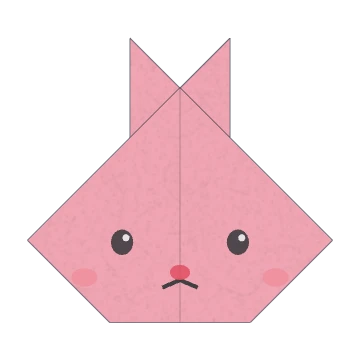
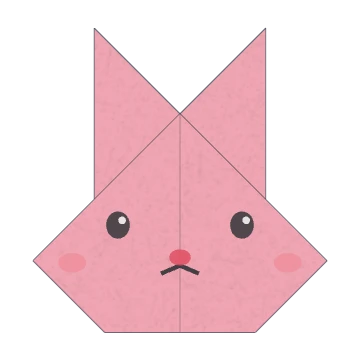
토끼 얼굴: 띠를 넓혀 귀가 길게 솟게, 턱 선과 얼굴 그림 위치 맞춤

diff --git a/src/models/rabbit.js b/src/models/rabbit.js
@@ -2,7 +2,7 @@
 // 출처: Origami Club "Rabbit (face)" (Fumiaki Shingu) https://en.origami-club.com/easy/animal-face/rabbit/
 // 세모의 아래 변을 띠로 접어 올리고, 양쪽을 가운데로 올려 접으면 띠 끝이 솟아 귀가 된다.
 import { eye, cheek, PENCIL } from './parts/draw.js';
-const R = Math.SQRT1_2, B = 0.1; // 띠 폭
+const R = Math.SQRT1_2, B = 0.16; // 띠 폭 (= 귀가 꼭대기 위로 나오는 길이)
 const band = (c) => c.tags.has('band');
 const flip = { spin: { a: [0, 0, 0], b: [0, 1, 0], angle: 180 } };
 
@@ -30,15 +30,15 @@ export const rabbit = {
       ],
     },
     { text: '종이를 뒤집어요.', moves: [flip], view: [0, 0.4, 1] },
-    { text: '아래 꼭짓점도 뒤로 접어 턱을 만들어요.', moves: [{ line: [[-1, 0.24], [1, 0.24]], side: [0, 0.15], toward: -1 }] },
+    { text: '아래 꼭짓점도 뒤로 접어 턱을 만들어요.', moves: [{ line: [[-1, 0.3], [1, 0.3]], side: [0, 0.2], toward: -1 }] },
     {
       text: '연필로 눈과 입을 그리고, 색연필로 코와 볼을 분홍색으로 칠하면 완성!',
       view: [0, 0, 1],
       draw: [
-        ...eye(-0.115, 0.4, 0.022), ...eye(0.115, 0.4, 0.022),
-        { line: [[-0.035, 0.31], [0, 0.325], [0.035, 0.31]], w: 0.008, color: PENCIL },
-        { dot: [0, 0.34], r: 0.02, ry: 0.015, color: '#e04f62' },
-        cheek(-0.19, 0.33, 0.026), cheek(0.19, 0.33, 0.026),
+        ...eye(-0.115, 0.5, 0.022), ...eye(0.115, 0.5, 0.022),
+        { line: [[-0.035, 0.41], [0, 0.425], [0.035, 0.41]], w: 0.008, color: PENCIL },
+        { dot: [0, 0.44], r: 0.02, ry: 0.015, color: '#e04f62' },
+        cheek(-0.2, 0.43, 0.026), cheek(0.2, 0.43, 0.026),
       ],
     },
   ],
